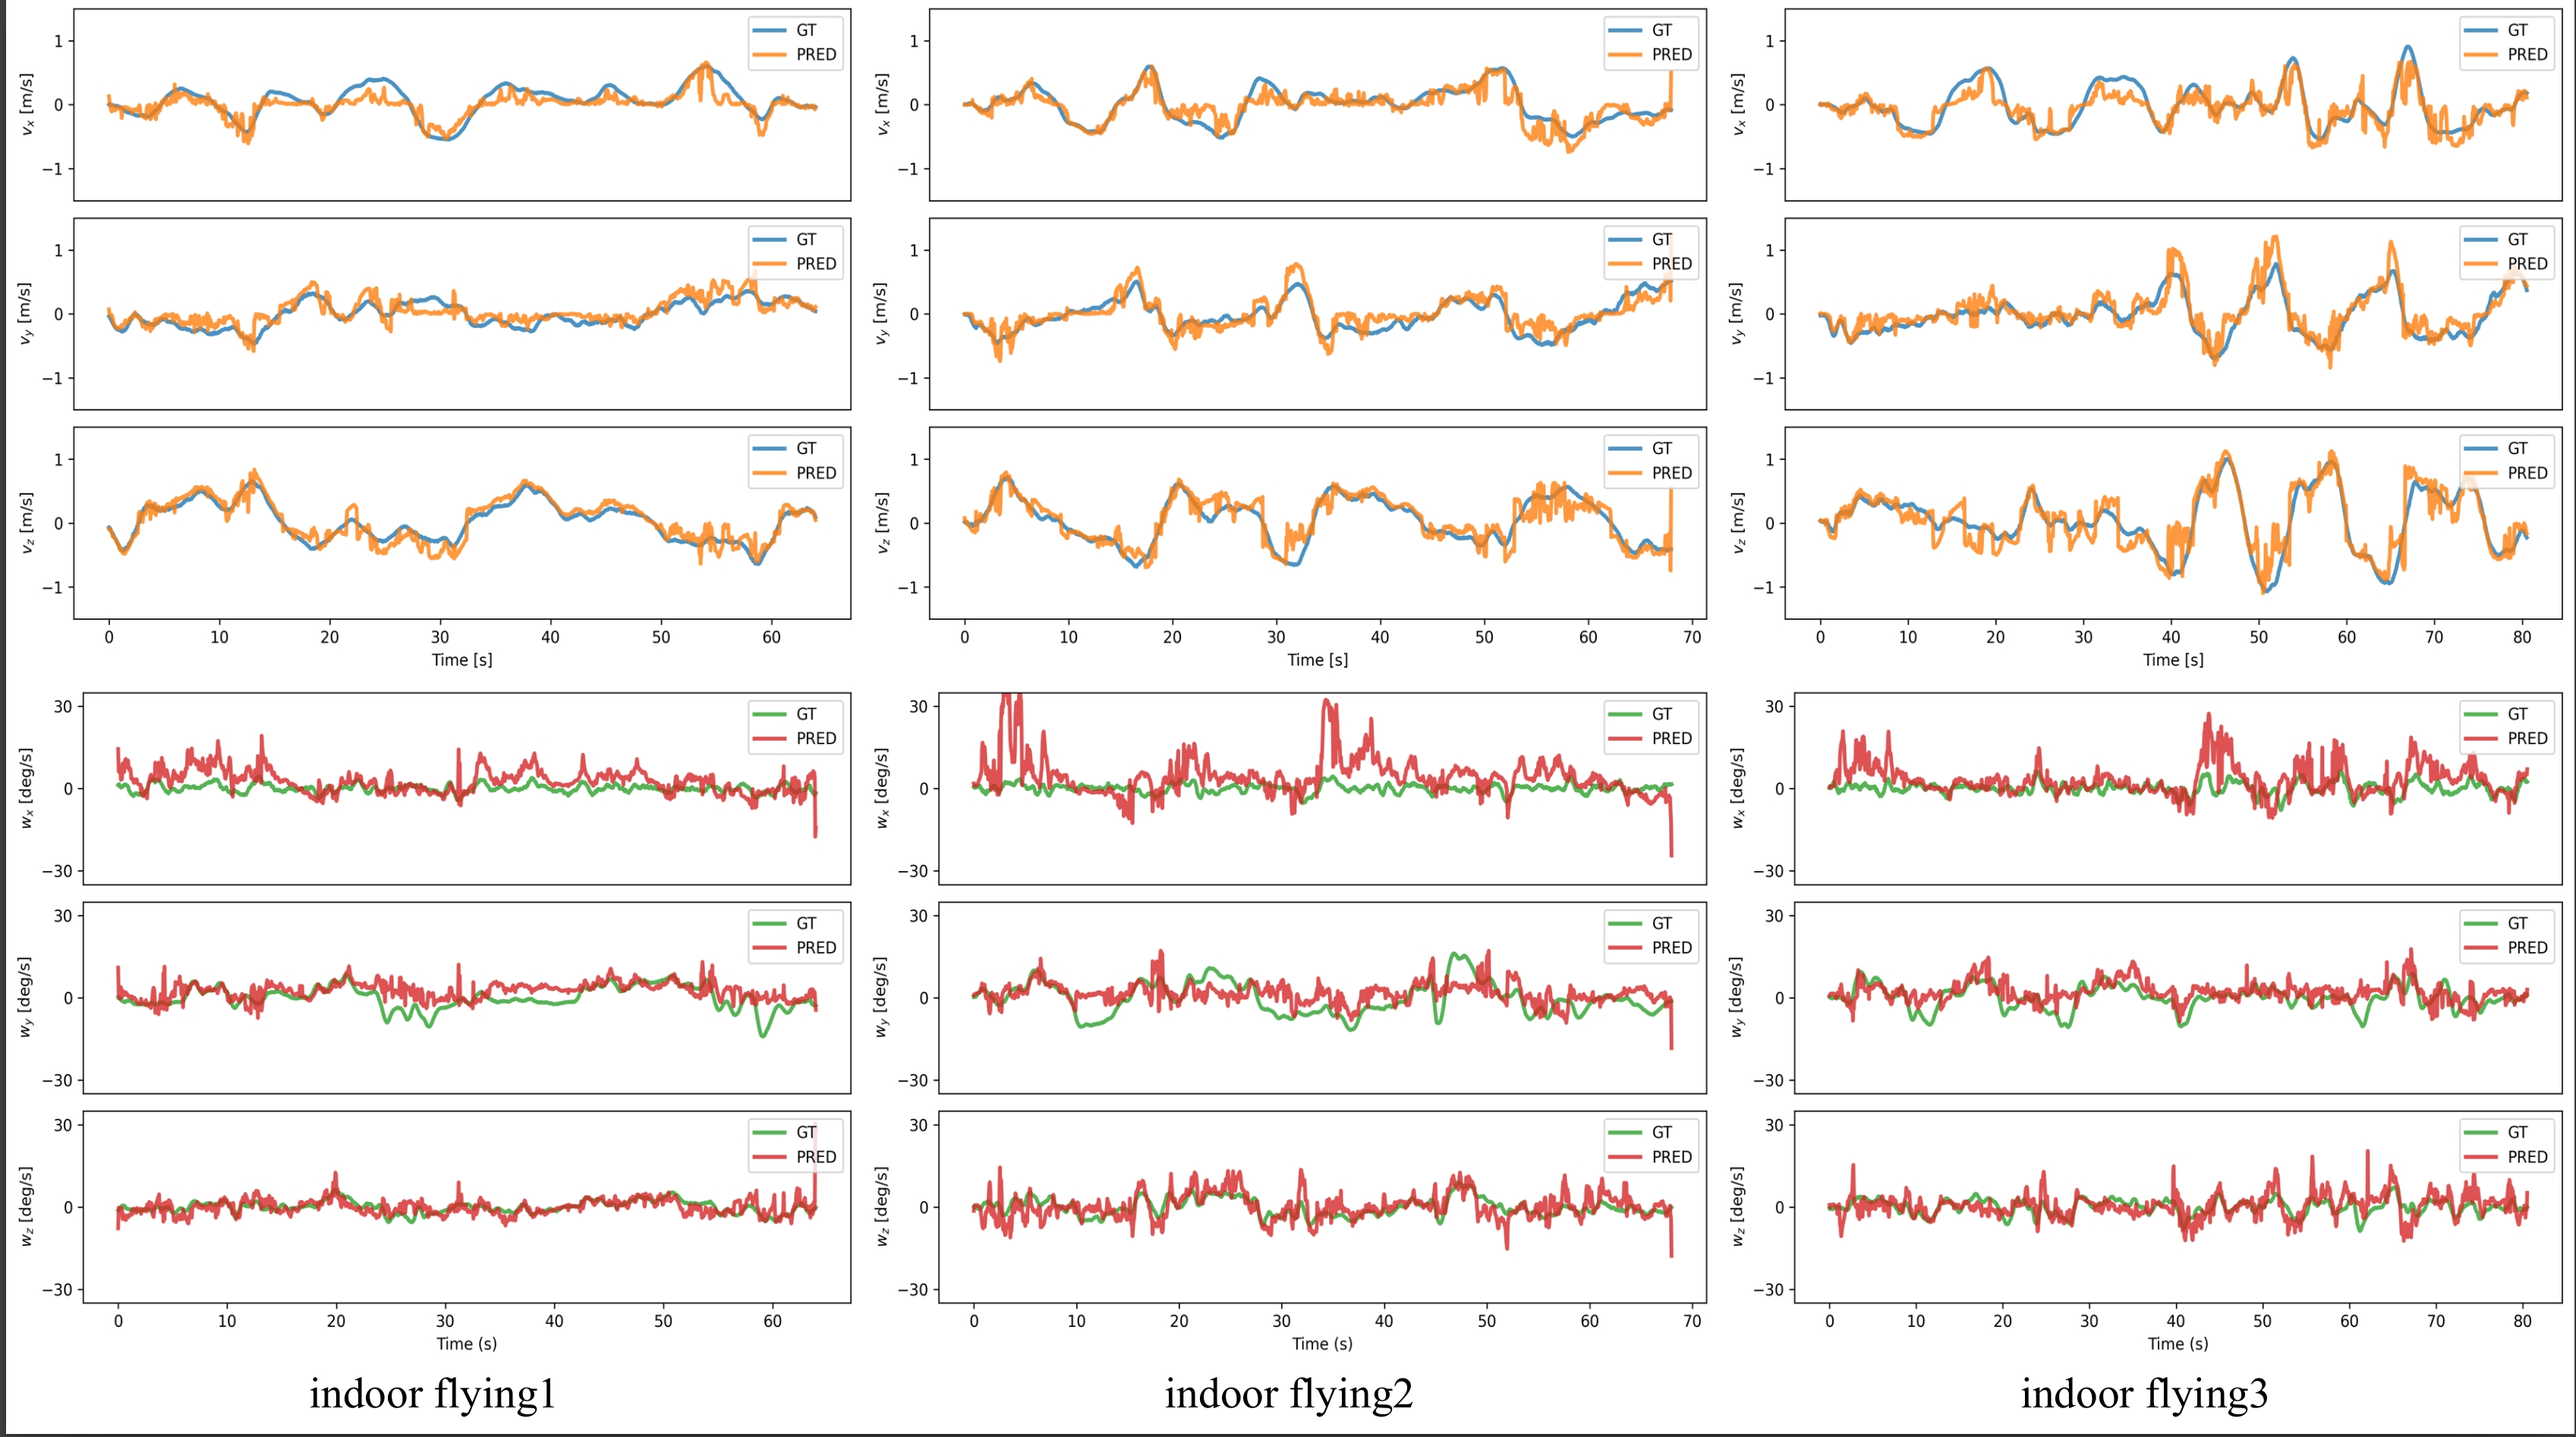
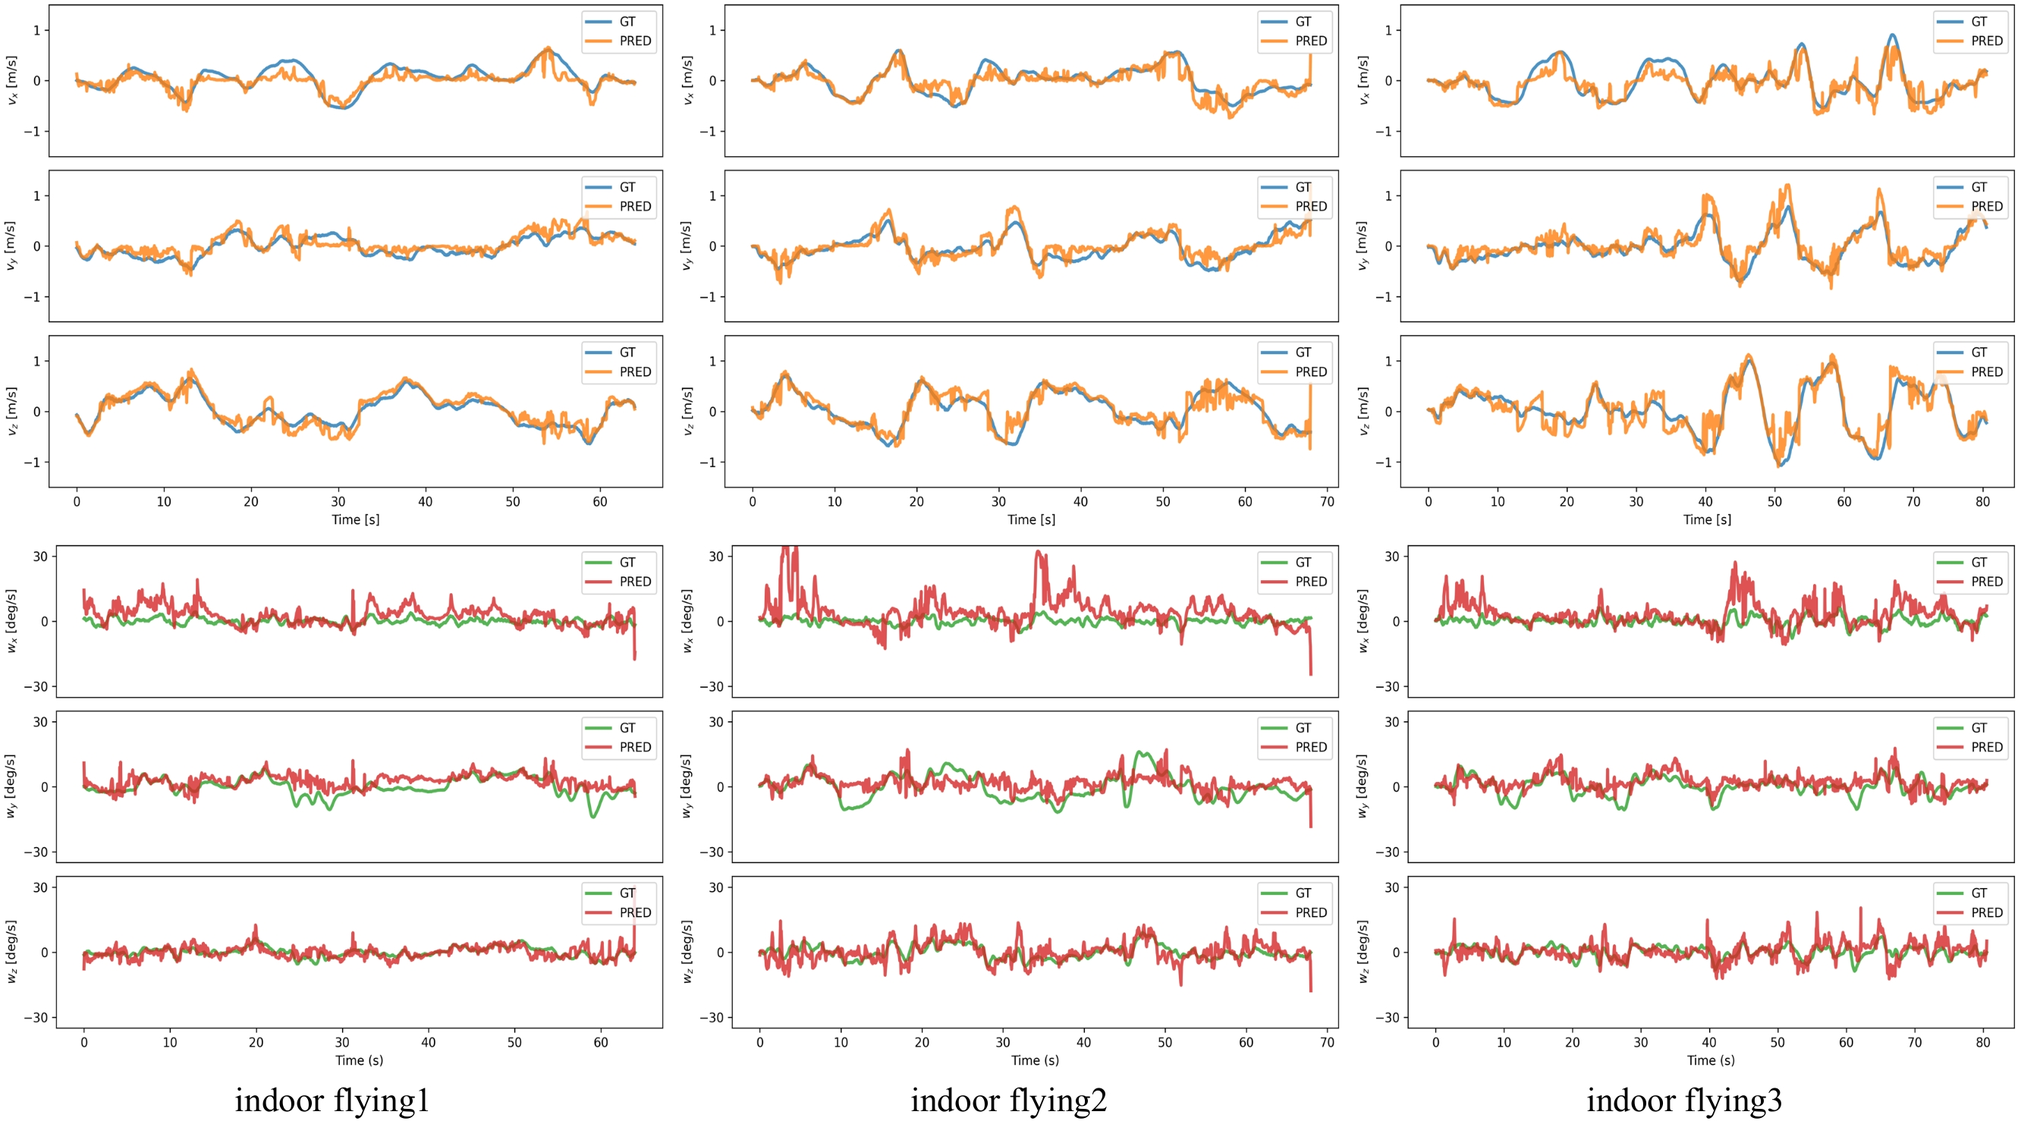
feat: add motion figure

diff --git a/EMoFlow/index.html b/EMoFlow/index.html
@@ -413,8 +413,10 @@
     <div class="columns is-centered has-text-centered">
       <div class="column is-four-fifths">
         <h2 class="title is-3">Pipeline</h2>
+        <div style="margin-bottom: -20px;"></div>
         <div class="pipeline-container">
           <image src="./assets/emoflow_pipeline.png" class="img-responsive" alt="overview">
+          <div style="margin-bottom: -30px;"></div>
           <image src="./assets/landscape_loss.jpg" class="img-responsive" alt="overview">
           <div class="content has-text-justified", style="font-size: 17px;">
             <p>
@@ -441,13 +443,11 @@
     <!--/ Paper video. -->
 
     </br>
-    </br>
-    </br>
 
-    <!-- Pipeline. -->
+    <!-- Results. -->
     <div class="columns is-centered has-text-centered">
       <div class="column is-four-fifths">
-        <h2 class="title is-3">Comparision</h2>
+        <h2 class="title is-3">Results</h2>
         <div class="pipeline-container">
           <div class="content has-text-justified", style="font-size: 17px;">
             <p>
@@ -457,7 +457,17 @@
           </div>
           <div style="margin-bottom: -35px;"></div> 
           <image src="./results/comparision_1.png" class="img-responsive" alt="overview">
+          <div style="margin-bottom: -30px;"></div>
           <image src="./results/comparision_2.png" class="img-responsive" alt="overview">
+
+          <div class="content has-text-justified", style="font-size: 17px;">
+            <p>
+              We also conducted qualitative evaluation on the 6-DoF motion estimation. 
+              The estimated motion by our method closely matches the ground truth.
+            </p>
+          </div>
+          <div style="margin-bottom: -35px;"></div> 
+          <image src="./results/motion_figure.jpg" class="img-responsive" alt="overview">
           
           <div class="content has-text-justified", style="font-size: 17px;">
             <p>
@@ -482,24 +492,12 @@
         </div>
       </div>
     </div>
-    <!--/ Pipeline. -->
+    <!--/ Results. -->
 
   </div>
 </section>
 
 </br>
-</br>
-
-
-
-
-
-    </div>
-    <!--/ Paper video. -->
-  </div>
-</section>
-
-
 
 <section class="teaser" id="BibTeX">
   <div class="container is-max-desktop content">
